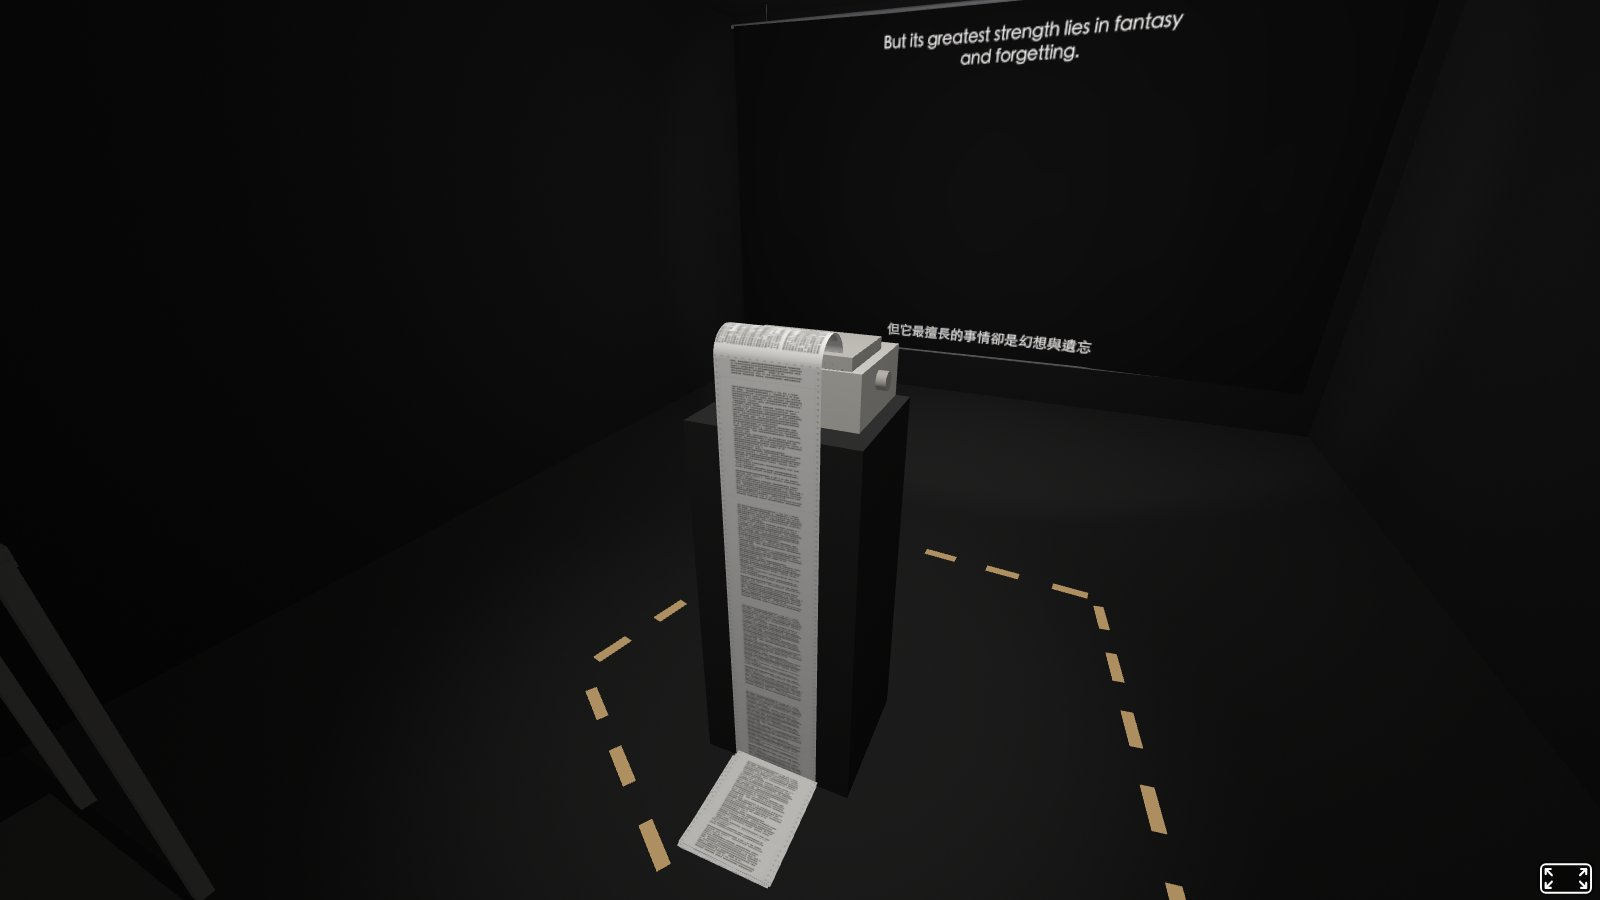
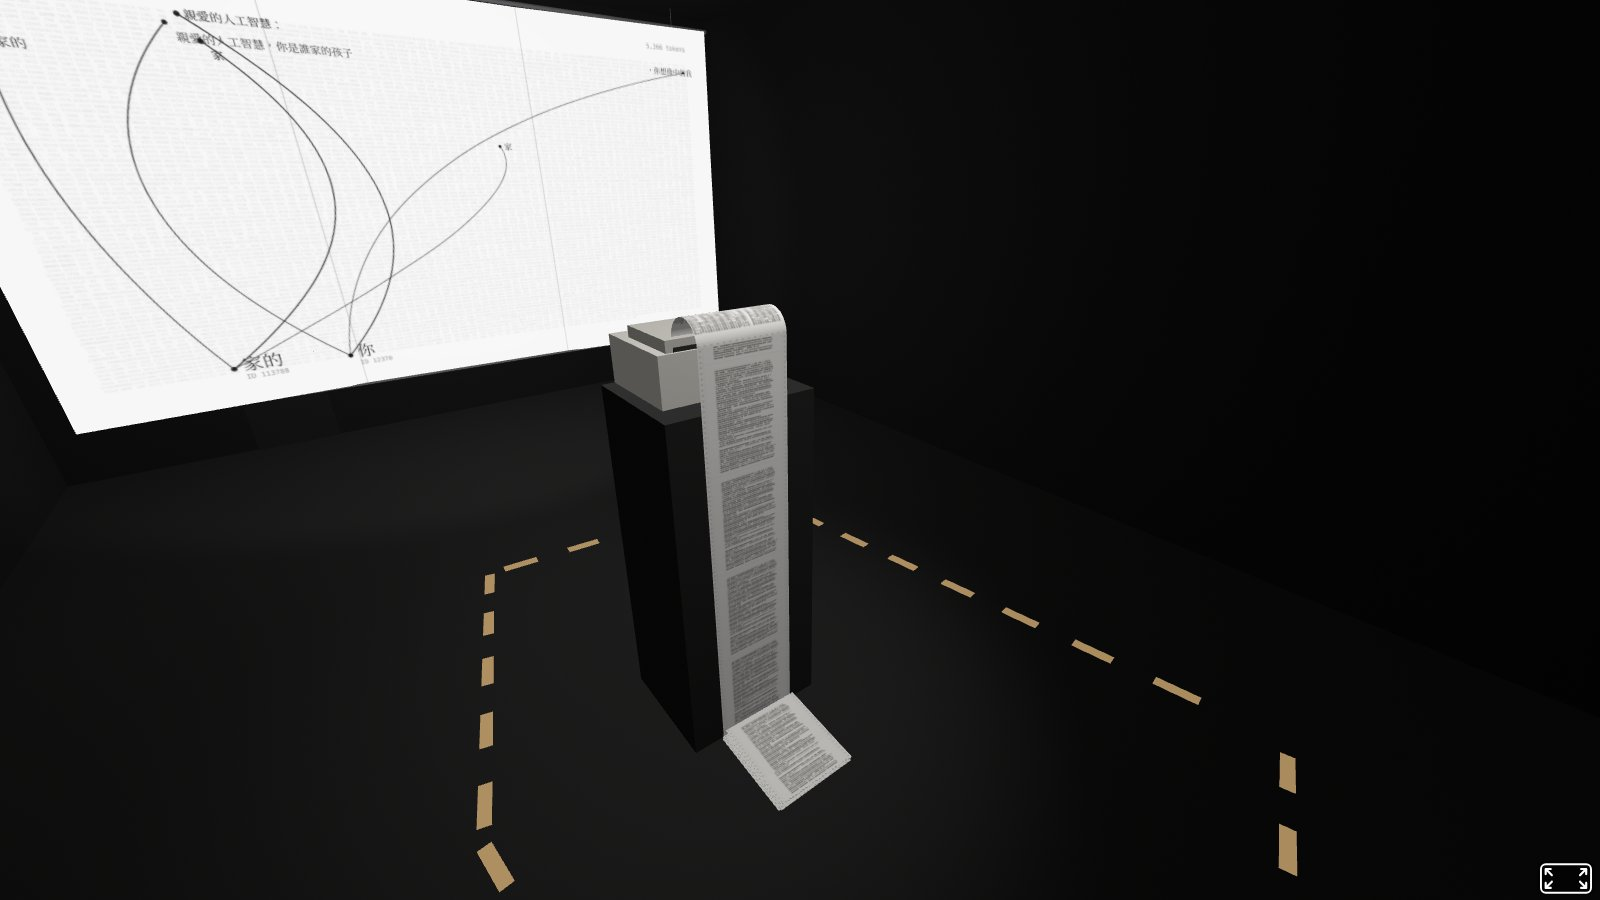
更新：v22 入口改為布幕左側的樓梯
Claude-Session: https://claude.ai/code/session_01EE4v5mEkSg963mjg7VvvBM

diff --git a/index.html b/index.html
@@ -66,7 +66,7 @@ AFRAME.registerComponent('live-canvas',{
   </a-assets>
   <a-entity id="root"></a-entity>
   <a-entity light="type:ambient; intensity:0.14; color:#ffffff"></a-entity>
-  <a-entity id="cam" camera="fov:72" look-controls="pointerLockEnabled:false; magicWindowTrackingEnabled:false" wasd-controls="acceleration:18" position="0.9 1.6 0.8"></a-entity>
+  <a-entity id="cam" camera="fov:72" look-controls="pointerLockEnabled:false; magicWindowTrackingEnabled:false" wasd-controls="acceleration:18" position="-1.52 0.25 -0.75"></a-entity>
 </a-scene>
 
 <aside class="sheet" id="sheet" aria-label="配置控制">
@@ -79,7 +79,8 @@ AFRAME.registerComponent('live-canvas',{
     <div>
       <div class="label">站位</div>
       <div class="row" id="views">
-        <button class="chip" data-v="door" aria-pressed="true">入口</button>
+        <button class="chip" data-v="door" aria-pressed="true">上樓梯</button>
+        <button class="chip" data-v="arrive" aria-pressed="false">到二樓</button>
         <button class="chip" data-v="paper" aria-pressed="false">垂落的紙</button>
         <button class="chip" data-v="printer" aria-pressed="false">印表機前</button>
         <button class="chip" data-v="screen" aria-pressed="false">投影牆前</button>
@@ -124,7 +125,7 @@ AFRAME.registerComponent('live-canvas',{
       <li><span class="sw" style="background:#d9d8d4"></span><span>布幕 360 × 203 cm（16:9），摺三折後燙出兩條直摺線，三幅布在摺線處接縫；上方吊桿懸掛，下方細桿拉平</span></li>
       <li><span class="sw" style="background:#d6d3cb"></span><span>EPSON LQ-310 點陣印表機，展場中央的高台上（100 cm），面向布幕；頂光</span></li>
       <li><span class="sw" style="background:#f7f6f2"></span><span>接力回信印在不剪斷的連續報表紙（9.5 吋）上，從高台背面垂落，在地上沿摺線疊起</span></li>
-      <li><span class="sw" style="background:#3a3a38"></span><span>樓梯間（示意，開放與否待確認）</span></li>
+      <li><span class="sw" style="background:#3a3a38"></span><span>入口：觀眾從左側樓梯走上來，面向布幕（階梯示意）；底部 87 cm 的門關著</span></li>
     </ul>
     <p class="hint">拖曳畫面看四周；電腦可用 WASD 或方向鍵走動。模型裡的投影是錄像開頭＋第一章粗剪（4:12）。印表機的高度、紙怎麼落下、紙上的字都是示意，等印表機實測。其他摺法（A4 假牆）保留作對照。</p>
   </div>
@@ -149,7 +150,6 @@ const FLOOR='#1b1b1a';
 box(-2,2,-0.02,0,-7.7,-3.4,FLOOR);
 box(-1.05,2,-0.02,0,-3.4,-1.4,FLOOR);
 box(-0.10,2,-0.02,0,-1.4,0,FLOOR);
-box(0.47,1.34,-0.02,0,0,1.4,'#262624');
 /* ceiling */
 box(-2,2,H,H+0.03,-7.78,0.08,'#101010','',{id:'ceil'});
 /* walls */
@@ -159,17 +159,24 @@ box(-2,0.47,0,H,0,0.08,'#0e0e0e','wall');
 box(1.34,2,0,H,0,0.08,'#0e0e0e','wall');
 box(0.47,1.34,2.05,H,0,0.08,'#0e0e0e','wall');
 box(-0.10,0.05,0,H,-1.4,0,'#0e0e0e','wall');
+/* bottom 87 cm door: closed, not the entrance */
+box(0.47,1.34,0,2.05,0.02,0.06,'#181817','doorcover');
 box(-2,2,0,H,-7.78,-7.7,'#0e0e0e','wood');
 box(-1.21,-0.81,0,2.05,-7.70,-7.68,'#161616','doorcover');
 
-/* stairwell (schematic) */
+/* stairwell = entrance: visitors climb the left (long) flight from 1F and step onto 2F facing the screen (schematic) */
+const SD=-2.0;
+box(-2.08,-2,SD,0,-3.4,0.08,'#0e0e0e','wall');
+box(-2,0.05,SD,0,0,0.08,'#0e0e0e','wall');
+box(-0.10,0.05,SD,0,-1.4,0,'#0e0e0e','wall');
+box(-1.05,-0.10,SD,0,-1.42,-1.4,'#0e0e0e','wall');
+box(-2,-0.10,SD-0.02,SD,-3.4,0,'#232322');
 for(let i=0;i<10;i++){const top=-0.18*(i+1);box(-2,-1.05,top-0.18,top,-3.4+i*0.34,-3.4+(i+1)*0.34,'#2c2c2a');}
 for(let i=0;i<5;i++){const top=-0.18*(i+1);box(-1.05,-0.10,top-0.18,top,-1.4+i*0.28,-1.4+(i+1)*0.28,'#2c2c2a');}
 const RAIL='#4a4a47';
-box(-2,-1.05,0.88,0.92,-3.42,-3.38,RAIL);
 box(-1.07,-1.03,0.88,0.92,-3.4,-1.4,RAIL);
 box(-1.05,-0.10,0.88,0.92,-1.42,-1.38,RAIL);
-[[-1.6,-3.4],[-1.05,-3.4],[-1.05,-2.4],[-1.05,-1.4],[-0.55,-1.4]].forEach(([x,z])=>box(x-0.015,x+0.015,0,0.9,z-0.015,z+0.015,RAIL));
+[[-1.05,-3.4],[-1.05,-2.4],[-1.05,-1.4],[-0.55,-1.4]].forEach(([x,z])=>box(x-0.015,x+0.015,0,0.9,z-0.015,z+0.015,RAIL));
 
 /* projection: A4 letter false wall with creases, or plain 16:9 on the wood wall */
 const THREE=AFRAME.THREE;
@@ -306,7 +313,7 @@ add('a-entity',{position:`${PX+0.25} 2.45 ${PZ+0.55}`,light:'type:spot; color:#f
 
 /* walking path, dashed on the floor */
 const pathRoot=add('a-entity',{id:'path'});
-const pts=[[0.9,1.1],[0.9,-2.2],[0.35,-3.55],[-0.75,-4.3],[-0.45,-5.5],[0.8,-5.4],[1.15,-3.2],[1.15,-1.4],[0.95,-0.15]];
+const pts=[[-1.52,-3.5],[-0.65,-3.6],[-0.75,-4.3],[-0.45,-5.5],[0.8,-5.4],[1.15,-3.2],[0.3,-2.95],[-1.1,-3.3]];
 for(let i=0;i<pts.length-1;i++){
   const [x1,z1]=pts[i],[x2,z2]=pts[i+1];const dx=x2-x1,dz=z2-z1,L=Math.hypot(dx,dz);
   const ang=Math.atan2(dx,dz)*180/Math.PI;
@@ -320,12 +327,13 @@ for(let i=0;i<pts.length-1;i++){
 /* controls */
 const cam=document.getElementById('cam');
 const views={
-  door:{p:[0.9,1.6,0.8],yaw:0,pitch:0},
-  paper:{p:[0.55,1.5,-3.15],yaw:24,pitch:-24},
+  door:{p:[-1.52,0.25,-0.75],yaw:-6,pitch:10},
+  arrive:{p:[-1.5,1.6,-3.55],yaw:-20,pitch:-6},
+  paper:{p:[-0.75,1.5,-3.05],yaw:-38,pitch:-24},
   printer:{p:[-0.45,1.5,-5.55],yaw:-158,pitch:-22},
   screen:{p:[0,1.5,-5.3],yaw:0,pitch:0},
   side:{p:[1.6,1.5,-5.6],yaw:40,pitch:-2},
-  back:{p:[0.4,1.6,-7.2],yaw:180,pitch:-8},
+  back:{p:[0.6,1.6,-7.2],yaw:160,pitch:-8},
   top:{p:[0,9.2,-3.85],yaw:0,pitch:-90}
 };
 const ceil=()=>document.getElementById('ceil');

diff --git a/README.md b/README.md
@@ -4,7 +4,8 @@
 
 - 線上預覽：https://wufangci.github.io/readme-3D-demo/
 - 展場是兩個部分：布幕三折上的錄像投影，以及展場中央的 EPSON LQ-310 點陣印表機。印表機每天把人工智慧之間的接力回信印在不剪斷的連續報表紙上，紙從高台垂落，在地上越疊越多。
+- 觀眾從布幕左側的樓梯走上二樓進入展場，上樓時正對布幕。
 - 選單可以切換「開展第 3 天／第 2 週／閉展前」，看紙在展期中的變化。
-- 尺寸、燈光、材質、印表機位置與紙怎麼落下都是示意，尚未定案；紙上的字是示意。布幕上播的是開頭＋第一章粗剪（無聲預覽）。
+- 尺寸、燈光、材質、印表機位置、紙怎麼落下與樓梯的階數都是示意，尚未定案；紙上的字是示意。布幕上播的是開頭＋第一章粗剪（無聲預覽）。
 
 來源：工作室 repo `components/exhibition/active/22-printer-center/`。
